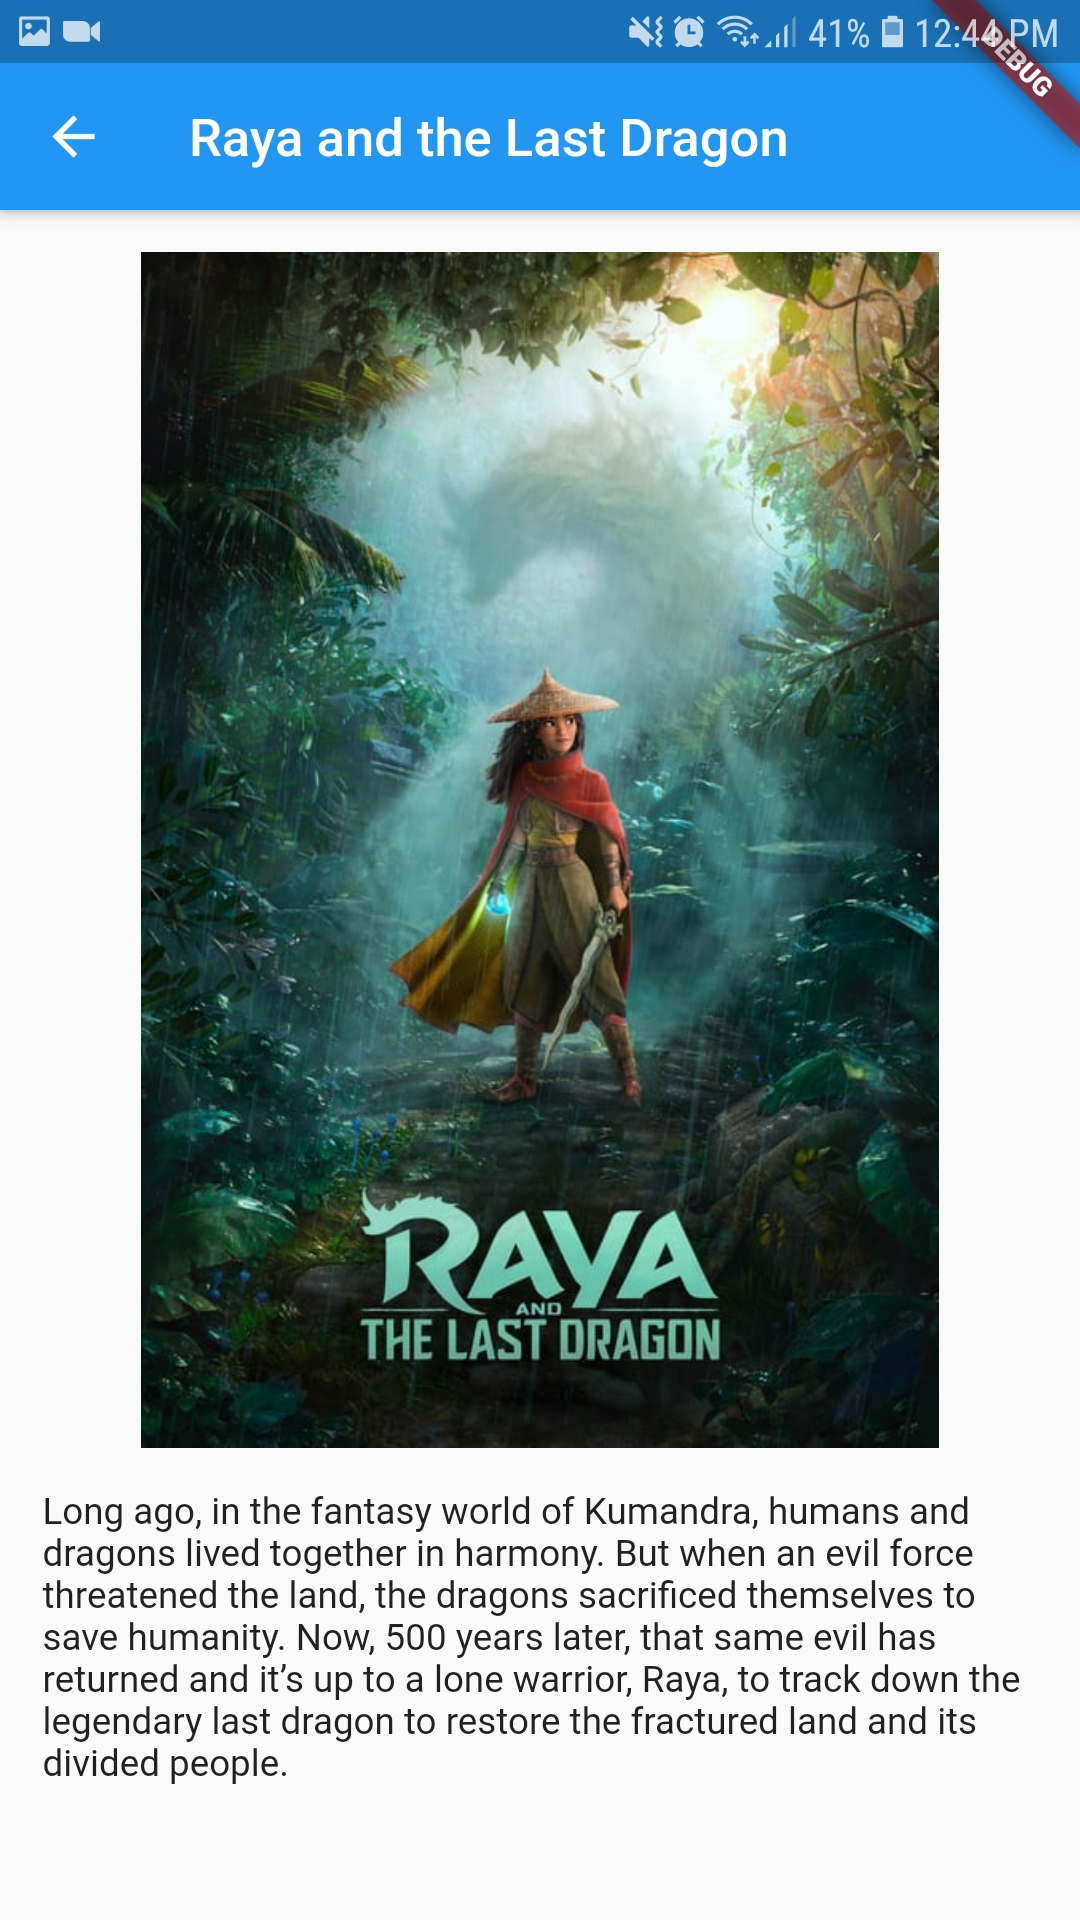
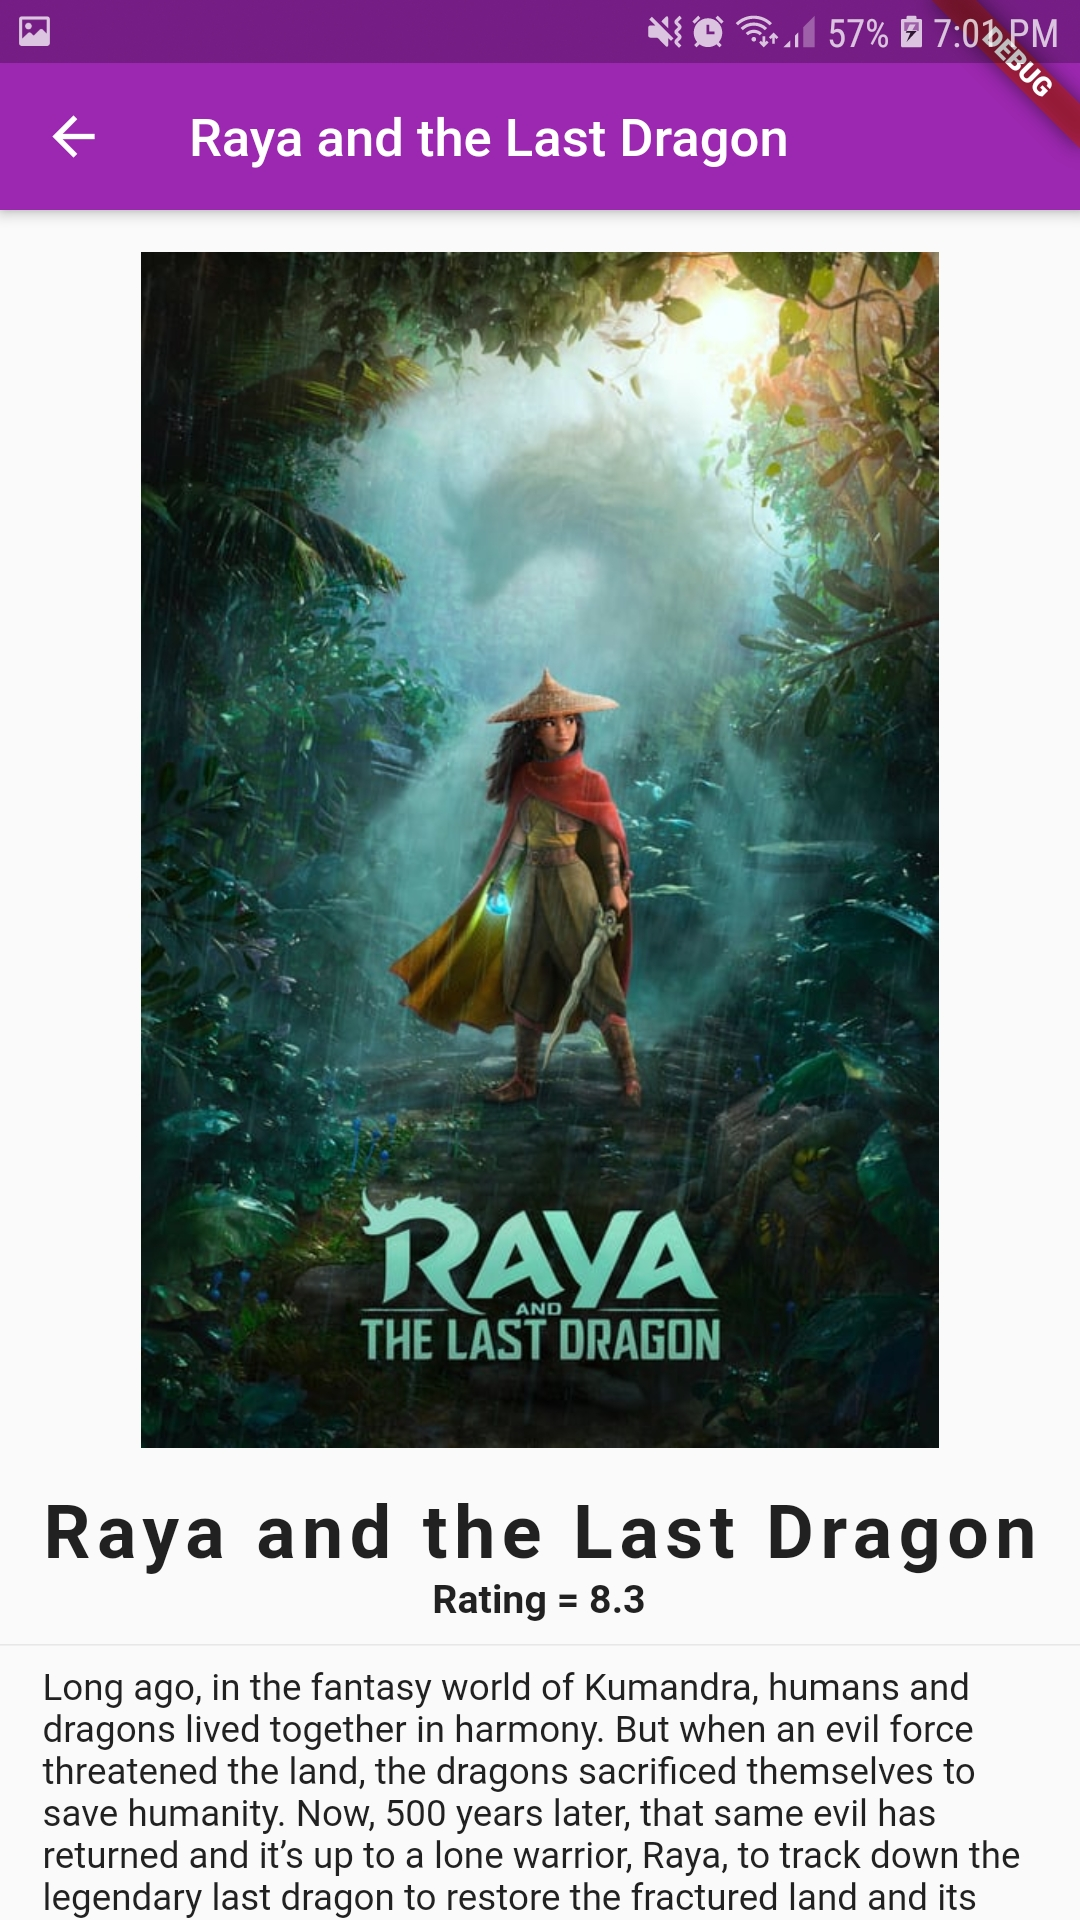
Tampilan

Changed region(s): [[0.0306, 0.7812, 0.9778, 1.0], [0.0, 0.0, 1.0, 0.125]]

diff --git a/lib/pages/movie_list.dart b/lib/pages/movie_list.dart
@@ -39,10 +39,9 @@ class _MovieListState extends State<MovieList> {
         body: GridView.builder(
           itemCount: (this.moviesCount == null) ? 0 : this.moviesCount,
           gridDelegate: new SliverGridDelegateWithFixedCrossAxisCount(
-            crossAxisCount: 2,
-            childAspectRatio: 2,
-            mainAxisSpacing: 10.0,
-            crossAxisSpacing: 10.0,
+            crossAxisCount: 2, //jumlah grid
+            childAspectRatio: 2, //jarak bawah
+            crossAxisSpacing: 5.0,
             
           ),
           itemBuilder: (context, int position) {
@@ -51,8 +50,8 @@ class _MovieListState extends State<MovieList> {
                 enableFeedback: true,
                 child: ListTile(
                 leading: Image.network(
-                        'https://www.themoviedb.org/t/p/w600_and_h900_bestv2/' +
-                            movies[position].posterPath),
+                        imgPath + movies[position].posterPath,
+                        fit: BoxFit.cover,),
                 title: Text(movies[position].title),
                 subtitle: Text(
                   'Rating = ' + movies[position].voteAverage.toString(),

diff --git a/lib/pages/movie_detail.dart b/lib/pages/movie_detail.dart
@@ -30,6 +30,20 @@ class MovieDetail extends StatelessWidget {
                 height: height / 1.5,
                 child: Image.network(path),
               ),
+               Text(
+                movie.title,
+                style: TextStyle(
+                  fontSize: 28,
+                  fontWeight: FontWeight.bold,
+                  letterSpacing: 2.5,
+                ),
+                textAlign: TextAlign.center,
+              ),
+              Text('Rating = ' + movie.voteAverage.toString(),
+                    style:
+                        TextStyle(fontWeight: FontWeight.bold, fontSize: 15)
+              ),
+              Divider(),
               Container(
                 child: Text(movie.overview),
                 padding: EdgeInsets.only(left: 16, right: 16),

diff --git a/lib/main.dart b/lib/main.dart
@@ -12,7 +12,7 @@ class MyApp extends StatelessWidget {
     return MaterialApp(
       title: 'Flutter Demo',
       theme: ThemeData(
-        primarySwatch: Colors.blue,
+        primarySwatch: Colors.purple,
         visualDensity: VisualDensity.adaptivePlatformDensity,
       ),
       home: MyHomePage(),
